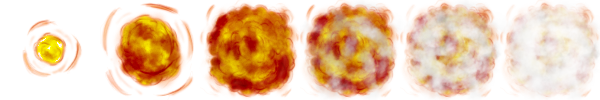
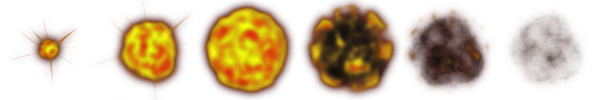
Redid missileExplosion.png, made explosion faster in Bullet.js

diff --git a/js/Bullet.js b/js/Bullet.js
@@ -158,8 +158,8 @@ Bullet.types.missile.shutdown = function(bullet) {
     1
   );
   explosion.sprite.initFrames(6);
-  explosion.sprite = AnimatedSprite(explosion.sprite, [1,2,3,4,5], 0.75, false);
-  TempGameObject(explosion, 0.75);
+  explosion.sprite = AnimatedSprite(explosion.sprite, [1,2,3,4,5], 0.5, false);
+  TempGameObject(explosion, 0.5);
   g_GameObjectManager.addGameObject(explosion);
   
   var hitbox = new Rectangle(
